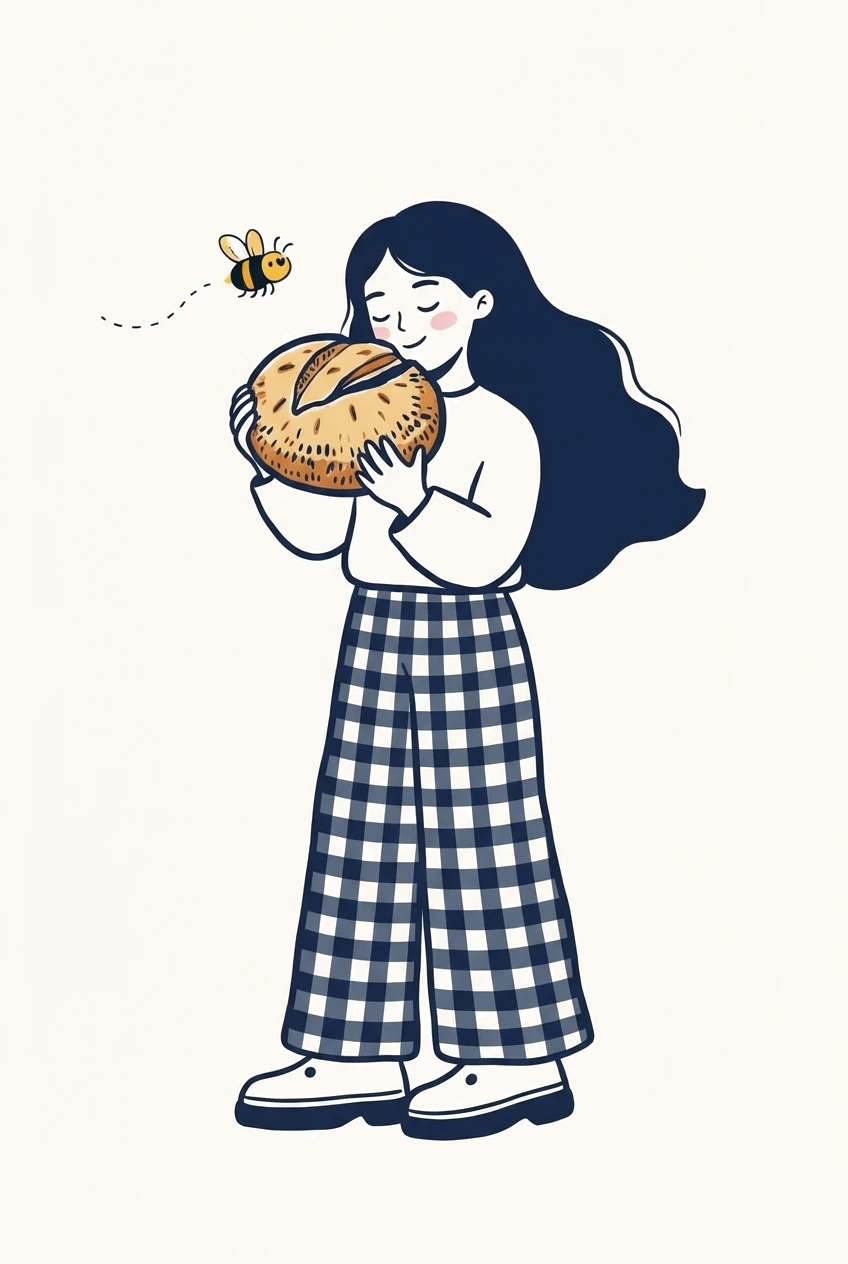
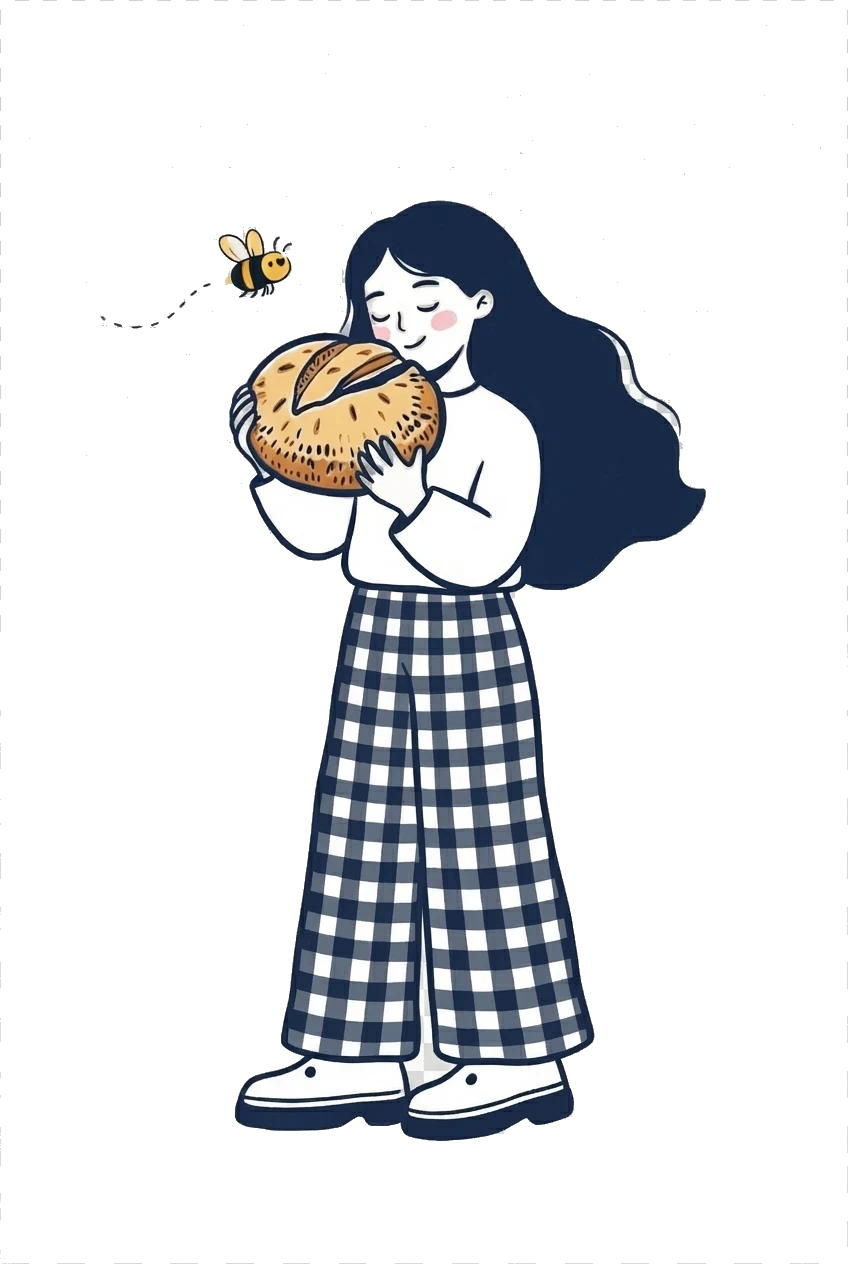
Bumblebread Club v3 polish: compact hero, product-first layout, reduced bees
- Hero redesigned: compact wordmark + tagline, no full-screen splash
- Batch menu promoted to hero position (loaf cards above the fold)
- Peeking mascot on right edge of batch menu, single floating bee
- Instagram feed section removed from page (component kept for Behold)
- How It Works: removed "Simple as" label, added @bumblebreadclub follow CTA
- Bee count reduced from ~12 to 6 with 3 desynced animation variants
- BeeDecoration accepts variant prop (1/2/3) for different animation timings
- globals.css: 3 bee-float keyframes (6s/8s+2s delay/4.5s+1s delay)
- Mascot images regenerated: text removed, backgrounds removed
- About: removed bottom-left bee, kept divider + top-right (distinct variants)
- JoinClub: removed floating bees, kept divider bee only
- MascotDividers reduced from 4 to 2 (smelling before About, breaking-bread before JoinClub)
- FreshnessGuide bee assigned variant 3
- Footer bees given explicit variants to avoid animation clumping
- Reviewed: no adjacent bees share the same animation variant

diff --git a/components/bumblebread/hero.tsx b/components/bumblebread/hero.tsx
@@ -1,9 +1,8 @@
 import Image from "next/image"
-import { BeeDecoration } from "./bee-decoration"
 
 export function Hero() {
   return (
-    <section className="relative min-h-[100dvh] flex flex-col items-center justify-between px-6 pt-12 pb-8 text-center overflow-hidden">
+    <section className="relative px-6 pt-10 pb-6 text-center overflow-hidden">
       {/* Background bread photo — very subtle texture */}
       <div className="absolute inset-0 opacity-[0.05]">
         <Image
@@ -16,78 +15,30 @@ export function Hero() {
         />
       </div>
 
-      {/* Floating bees */}
-      <div className="absolute top-16 right-6 md:right-20">
-        <BeeDecoration className="w-8 h-8" />
-      </div>
-      <div className="absolute top-44 left-4 md:left-16 opacity-60">
-        <BeeDecoration className="w-6 h-6" />
-      </div>
-
-      {/* Top — The name comes FIRST */}
-      <div className="relative z-10 mt-4">
-        <p
-          className="text-sm tracking-[0.3em] uppercase mb-3 opacity-60"
-          style={{ fontFamily: "var(--font-bb-body)", color: "var(--bb-navy)" }}
-        >
-          Welcome to
-        </p>
-        <h1
-          className="text-4xl md:text-6xl font-black leading-[1.1] mb-2"
-          style={{ fontFamily: "var(--font-bb-heading)", color: "var(--bb-navy)" }}
-        >
-          The<br />
-          Bumblebread<br />
-          Club
-        </h1>
-        <div className="flex items-center justify-center gap-3 mt-4">
-          <span className="h-px w-10" style={{ backgroundColor: "var(--bb-gold)" }} />
-          <BeeDecoration className="w-5 h-5" />
-          <span className="h-px w-10" style={{ backgroundColor: "var(--bb-gold)" }} />
-        </div>
-      </div>
-
-      {/* Middle — Mascot walking naturally in the flow */}
-      <div className="relative z-10 flex-1 flex items-center justify-center -my-2">
-        <div className="w-44 md:w-52">
+      <div className="relative z-10">
+        {/* Wordmark logo — compact, brand identity */}
+        <h1>
+          <span className="sr-only">The Bumblebread Club</span>
           <Image
-            src="/bumblebread/logo-full-t.webp"
-            alt="The Bumblebread Club mascot"
-            width={400}
-            height={768}
-            className="w-full h-auto drop-shadow-sm"
+            src="/bumblebread/wordmark-t.webp"
+            alt="The Bumblebread Club"
+            width={500}
+            height={200}
+            className="w-56 md:w-72 h-auto mx-auto"
             priority
           />
-        </div>
-      </div>
+        </h1>
 
-      {/* Bottom — Tagline + CTA */}
-      <div className="relative z-10 space-y-6">
+        {/* Tagline */}
         <p
-          className="text-lg md:text-xl max-w-xs mx-auto leading-relaxed italic"
+          className="mt-4 text-base md:text-lg max-w-xs mx-auto leading-relaxed italic"
           style={{
             fontFamily: "var(--font-bb-accent)",
             color: "var(--bb-text-muted)",
-            fontSize: "1.2rem",
           }}
         >
           A microbakery offering weekly limited sourdough
         </p>
-
-        <a
-          href="#batch"
-          className="inline-flex items-center gap-2 px-8 py-4 rounded-full text-base font-semibold transition-all duration-300 hover:scale-105 active:scale-95 hover:shadow-lg"
-          style={{
-            fontFamily: "var(--font-bb-body)",
-            backgroundColor: "var(--bb-navy)",
-            color: "var(--bb-cream)",
-          }}
-        >
-          See This Week&apos;s Batch
-          <svg width="16" height="16" viewBox="0 0 16 16" fill="none" stroke="currentColor" strokeWidth="2" strokeLinecap="round">
-            <path d="M8 3v10M3 8l5 5 5-5" />
-          </svg>
-        </a>
       </div>
     </section>
   )

diff --git a/app/bumblebread/page.tsx b/app/bumblebread/page.tsx
@@ -1,7 +1,6 @@
 import { Hero } from "@/components/bumblebread/hero"
 import { BatchMenu } from "@/components/bumblebread/batch-menu"
 import { MascotDivider } from "@/components/bumblebread/mascot-divider"
-import { InstagramFeed } from "@/components/bumblebread/instagram-feed"
 import { HowItWorks } from "@/components/bumblebread/how-it-works"
 import { FreshnessGuide } from "@/components/bumblebread/freshness-guide"
 import { About } from "@/components/bumblebread/about"
@@ -15,28 +14,6 @@ export default function BumblebreadPage() {
 
       <BatchMenu />
 
-      {/* Mascot peeking in after the menu */}
-      <MascotDivider
-        src="/bumblebread/mascot-peeking.webp"
-        alt="Bumblebread mascot peeking in"
-        width={512}
-        height={512}
-        position="right"
-        className="-mt-6 -mb-6"
-      />
-
-      <InstagramFeed />
-
-      {/* Mascot walking between Instagram and How It Works */}
-      <MascotDivider
-        src="/bumblebread/mascot-walking-right.webp"
-        alt="Bumblebread mascot walking with bread"
-        width={424}
-        height={632}
-        position="left"
-        className="-mt-4 -mb-4"
-      />
-
       <HowItWorks />
 
       <FreshnessGuide />
@@ -45,22 +22,22 @@ export default function BumblebreadPage() {
       <MascotDivider
         src="/bumblebread/mascot-smelling.webp"
         alt="Bumblebread mascot enjoying the aroma of fresh bread"
-        width={424}
-        height={632}
+        width={848}
+        height={1264}
         position="center"
         className="-mb-8 mt-2"
       />
 
       <About />
 
-      {/* Mascot sitting near the signup / end of page */}
+      {/* Mascot breaking bread — community feel before signup */}
       <MascotDivider
         src="/bumblebread/mascot-breaking-bread.webp"
         alt="Bumblebread mascot breaking bread"
-        width={600}
-        height={448}
-        position="right"
-        className="-mt-4 -mb-4"
+        width={495}
+        height={518}
+        position="center"
+        className="-mt-2 -mb-6"
       />
 
       <JoinClub />

diff --git a/components/bumblebread/how-it-works.tsx b/components/bumblebread/how-it-works.tsx
@@ -39,17 +39,11 @@ export function HowItWorks() {
     <section className="relative px-6 py-20 md:py-28">
       {/* Decorative bee */}
       <div className="absolute bottom-12 right-6 md:right-16 opacity-40">
-        <BeeDecoration className="w-6 h-6" />
+        <BeeDecoration className="w-6 h-6" variant={2} />
       </div>
 
       <div className="max-w-md mx-auto">
         <div className="text-center mb-14">
-          <p
-            className="text-xs tracking-[0.25em] uppercase mb-3"
-            style={{ fontFamily: "var(--font-bb-body)", color: "var(--bb-text-muted)" }}
-          >
-            Simple as
-          </p>
           <h2
             className="text-2xl md:text-3xl font-bold"
             style={{ fontFamily: "var(--font-bb-heading)", color: "var(--bb-navy)" }}
@@ -89,6 +83,24 @@ export function HowItWorks() {
             </div>
           ))}
         </div>
+
+        {/* Instagram follow CTA */}
+        <p
+          className="text-center mt-14 text-sm"
+          style={{ fontFamily: "var(--font-bb-body)", color: "var(--bb-text-muted)" }}
+        >
+          Follow{" "}
+          <a
+            href="https://instagram.com/bumblebreadclub"
+            target="_blank"
+            rel="noopener noreferrer"
+            className="underline underline-offset-2 transition-colors hover:opacity-80"
+            style={{ color: "var(--bb-gold)" }}
+          >
+            @bumblebreadclub
+          </a>{" "}
+          for batch drops and behind-the-scenes
+        </p>
       </div>
     </section>
   )

diff --git a/app/bumblebread/globals.css b/app/bumblebread/globals.css
@@ -26,16 +26,38 @@ html {
   bottom: 4px;
 }
 
-/* Bee float animation */
-@keyframes bee-float {
+/* Bee float animations — 3 desynced variants */
+@keyframes bee-float-1 {
   0%, 100% { transform: translate(0, 0) rotate(0deg); }
   25% { transform: translate(3px, -6px) rotate(5deg); }
   50% { transform: translate(-2px, -10px) rotate(-3deg); }
   75% { transform: translate(4px, -5px) rotate(4deg); }
 }
 
-.bee-animate {
-  animation: bee-float 4s ease-in-out infinite;
+@keyframes bee-float-2 {
+  0%, 100% { transform: translate(0, 0) rotate(0deg); }
+  20% { transform: translate(-4px, -8px) rotate(-4deg); }
+  45% { transform: translate(3px, -12px) rotate(6deg); }
+  70% { transform: translate(-3px, -4px) rotate(-2deg); }
+}
+
+@keyframes bee-float-3 {
+  0%, 100% { transform: translate(0, 0) rotate(0deg); }
+  30% { transform: translate(5px, -4px) rotate(6deg); }
+  60% { transform: translate(-4px, -8px) rotate(-5deg); }
+  85% { transform: translate(2px, -3px) rotate(3deg); }
+}
+
+.bee-float-1 {
+  animation: bee-float-1 6s ease-in-out infinite;
+}
+
+.bee-float-2 {
+  animation: bee-float-2 8s ease-in-out 2s infinite;
+}
+
+.bee-float-3 {
+  animation: bee-float-3 4.5s ease-in-out 1s infinite;
 }
 
 /* Section fade-in on scroll */

diff --git a/components/bumblebread/batch-menu.tsx b/components/bumblebread/batch-menu.tsx
@@ -62,10 +62,22 @@ export function BatchMenu() {
   }
 
   return (
-    <section id="batch" className="relative px-6 py-20 md:py-28">
-      {/* Decorative bee */}
-      <div className="absolute top-10 left-6 md:left-20 opacity-50">
-        <BeeDecoration className="w-6 h-6" />
+    <section id="batch" className="relative px-6 pt-10 pb-20 md:pb-28">
+      {/* Floating bee — top-right */}
+      <div className="absolute top-6 right-6 md:right-20">
+        <BeeDecoration className="w-8 h-8" variant={1} />
+      </div>
+
+      {/* Mascot peeking from right edge */}
+      <div className="absolute right-0 top-8 w-16 md:w-20 overflow-hidden opacity-70">
+        <Image
+          src="/bumblebread/mascot-peeking.webp"
+          alt=""
+          width={512}
+          height={512}
+          className="w-full h-auto"
+          aria-hidden="true"
+        />
       </div>
 
       <div className="max-w-lg mx-auto">
@@ -91,7 +103,7 @@ export function BatchMenu() {
           </p>
         </div>
 
-        {/* Loaf cards — each one gets its own breathing space */}
+        {/* Loaf cards */}
         <div className="space-y-8">
           {BATCH.loaves.map((loaf) => {
             const badge = statusBadge[loaf.status]

diff --git a/components/bumblebread/about.tsx b/components/bumblebread/about.tsx
@@ -4,19 +4,16 @@ import { BeeDecoration } from "./bee-decoration"
 export function About() {
   return (
     <section className="relative px-6 py-20 md:py-28">
-      {/* Decorative bees */}
+      {/* Decorative bee — top-right */}
       <div className="absolute top-16 right-6 md:right-16 opacity-50">
-        <BeeDecoration className="w-7 h-7" />
-      </div>
-      <div className="absolute bottom-20 left-8 md:left-20 opacity-30">
-        <BeeDecoration className="w-5 h-5" />
+        <BeeDecoration className="w-7 h-7" variant={2} />
       </div>
 
       <div className="max-w-lg mx-auto">
         <div className="text-center mb-10">
           <div className="flex items-center justify-center gap-3 mb-4">
             <span className="h-px w-8" style={{ backgroundColor: "var(--bb-gold)" }} />
-            <BeeDecoration className="w-5 h-5" />
+            <BeeDecoration className="w-5 h-5" variant={1} />
             <span className="h-px w-8" style={{ backgroundColor: "var(--bb-gold)" }} />
           </div>
           <h2

diff --git a/components/bumblebread/join-club.tsx b/components/bumblebread/join-club.tsx
@@ -47,18 +47,10 @@ export function JoinClub() {
 
   return (
     <section className="relative px-6 py-20 md:py-28" style={{ backgroundColor: "var(--bb-cream-dark)" }}>
-      {/* Decorative bees */}
-      <div className="absolute top-12 left-6 md:left-16 opacity-40">
-        <BeeDecoration className="w-6 h-6" />
-      </div>
-      <div className="absolute bottom-16 right-10 md:right-24 opacity-30">
-        <BeeDecoration className="w-5 h-5" />
-      </div>
-
       <div className="max-w-md mx-auto text-center">
         <div className="flex items-center justify-center gap-3 mb-4">
           <span className="h-px w-8" style={{ backgroundColor: "var(--bb-gold)" }} />
-          <BeeDecoration className="w-5 h-5" />
+          <BeeDecoration className="w-5 h-5" variant={2} />
           <span className="h-px w-8" style={{ backgroundColor: "var(--bb-gold)" }} />
         </div>
 

diff --git a/components/bumblebread/footer.tsx b/components/bumblebread/footer.tsx
@@ -8,7 +8,7 @@ export function Footer() {
     >
       {/* Decorative bee */}
       <div className="absolute top-6 right-8 opacity-20">
-        <BeeDecoration className="w-5 h-5" />
+        <BeeDecoration className="w-5 h-5" variant={3} />
       </div>
 
       <div className="max-w-xl mx-auto">
@@ -34,7 +34,7 @@ export function Footer() {
 
         <div className="flex items-center justify-center gap-3 mt-6 mb-4">
           <span className="h-px w-6 opacity-20" style={{ backgroundColor: "var(--bb-cream)" }} />
-          <BeeDecoration className="w-4 h-4 opacity-30" />
+          <BeeDecoration className="w-4 h-4 opacity-30" variant={1} />
           <span className="h-px w-6 opacity-20" style={{ backgroundColor: "var(--bb-cream)" }} />
         </div>
 

diff --git a/components/bumblebread/bee-decoration.tsx b/components/bumblebread/bee-decoration.tsx
@@ -1,7 +1,8 @@
-export function BeeDecoration({ className = "" }: { className?: string }) {
+export function BeeDecoration({ className = "", variant = 1 }: { className?: string; variant?: 1 | 2 | 3 }) {
+  const animClass = `bee-float-${variant}`
   return (
     <svg
-      className={`bee-animate ${className}`}
+      className={`${animClass} ${className}`}
       width="32"
       height="32"
       viewBox="0 0 32 32"

diff --git a/components/bumblebread/freshness-guide.tsx b/components/bumblebread/freshness-guide.tsx
@@ -25,7 +25,7 @@ export function FreshnessGuide() {
     <section className="relative px-6 py-20 md:py-28" style={{ backgroundColor: "var(--bb-cream-dark)" }}>
       {/* Decorative bee */}
       <div className="absolute top-10 left-8 md:left-20 opacity-40">
-        <BeeDecoration className="w-6 h-6" />
+        <BeeDecoration className="w-6 h-6" variant={3} />
       </div>
 
       <div className="max-w-lg mx-auto">
